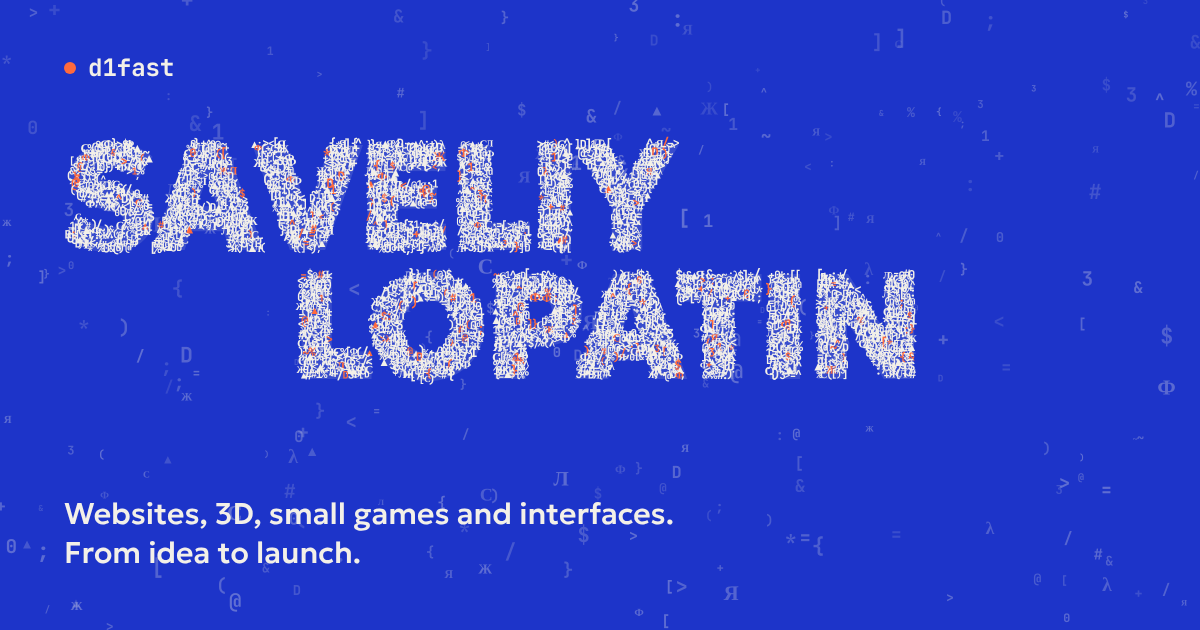
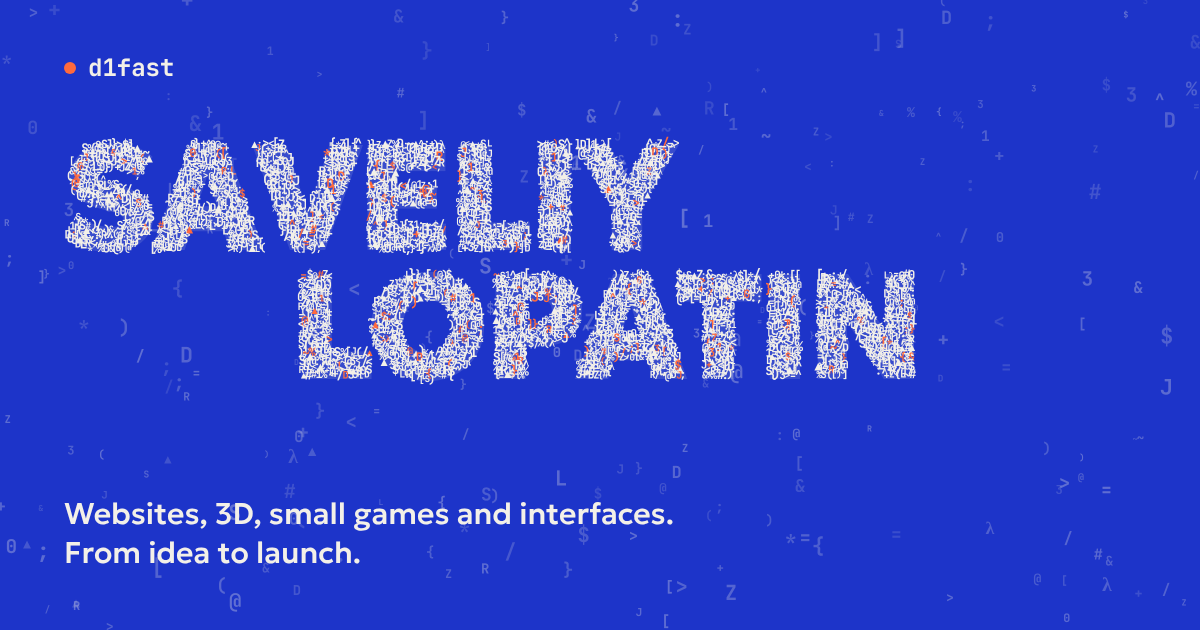
Правки по проверке: с клавиатуры фокус переезжает в открытый блок, PageUp/PageDown работают и в меню, ссылка «К содержимому» не уносит наверх, язык переключается в тот же блок; после отправки формы блок влезает в телефон; кинозал без подтормаживания на смене кадров, бра не срезается постером; на пер

diff --git a/src/i18n/ru.ts b/src/i18n/ru.ts
@@ -23,15 +23,14 @@ export const ru: Dict = {
   hero: {
     name: 'Савелий Лопатин',
     nick: 'd1fast',
-    tagline: 'Делаю сайты, 3D, небольшие игры и интерфейсы. От идеи до запуска.',
+    tagline: 'Делаю сайты, 3D, небольшие игры и\u00a0интерфейсы. От\u00a0идеи до\u00a0запуска.',
     ctaContact: 'Написать мне',
     ctaWorks: 'Работы',
   },
   about: {
     title: 'Обо мне',
     photoAlt: 'Фото Савелия Лопатина',
-    photoSoon: 'Фото скоро будет',
-    lead: 'Я Савелий, в сети d1fast. Молодой разработчик из Москвы. Делаю цифровые продукты целиком, от идеи до запуска.',
+    lead: 'Я Савелий, в сети d1fast. Молодой разработчик из Москвы. Делаю цифровые продукты целиком.',
     notes: ['сначала разбираюсь в задаче', 'пишу подробное ТЗ', 'довожу, пока не понравится самому', 'рутину отдаю ИИ, решаю сам'],
     stickers: ['Москва', 'работаю удалённо', 'отвечаю в тот же день'],
   },
@@ -44,7 +43,7 @@ export const ru: Dict = {
       { title: '3D и интерактив', text: 'Сцены на Three.js, которые летают и на телефоне.' },
       { title: 'Небольшие игры', text: 'Браузерные игры для промо и ради удовольствия.' },
       { title: 'Интерфейсы', text: 'Экраны, прототипы и дизайн-системы.' },
-      { title: 'Разобраться и описать', text: 'Разбор задачи и ТЗ до первой строки кода.' },
+      { title: 'Разбор задачи и ТЗ', text: 'Чёткое ТЗ до первой строки кода.' },
     ],
   },
   works: {
@@ -73,12 +72,12 @@ export const ru: Dict = {
     namePlaceholder: 'Имя, @ник или почта',
     messageLabel: 'Что нужно сделать',
     messagePlaceholder: 'Например: сайт для кофейни, нужен к декабрю',
-    consent: 'Согласен с',
-    consentLink: 'политикой обработки данных',
+    consent: 'Принимаю',
+    consentLink: 'политику обработки данных',
     submit: 'Отправить',
     sending: 'Отправляю',
     success: 'Получил! Отвечу в тот же день.',
-    successMail: 'Открылась почта с вашим письмом. Осталось нажать «Отправить».',
+    successMail: 'Должна открыться почта. Если нет, напишите на адрес выше.',
     error: 'Не отправилось. Напишите мне на почту:',
     errorConsent: 'Нужно согласие на обработку данных.',
     errorEmpty: 'Напишите хотя бы пару слов.',
@@ -97,7 +96,7 @@ export const ru: Dict = {
       'Оператор: Лопатин Савелий Алексеевич, почта saveliylopatin@yandex.ru.',
       'Какие данные: то, что вы сами написали в форме на сайте. Обычно это имя или контакт (ник в Telegram или почта) и текст сообщения.',
       'Зачем: чтобы ответить на ваше сообщение и обсудить задачу. Больше ни для чего.',
-      'Куда попадают: сообщение из формы приходит мне в Telegram. Telegram хранит его по своим правилам. Отдельной базы данных нет, никому не передаю и не продаю.',
+      'Куда попадают: сообщение из формы приходит мне в Telegram, а если форма открыла письмо, то на почту. Telegram и почта хранят его по своим правилам. Отдельной базы данных нет, никому не передаю и не продаю.',
       'Сколько храню: пока идёт переписка. Напишите мне, и я удалю сообщение.',
       'Основание: ваше согласие, которое вы даёте галочкой перед отправкой (статья 9 закона 152-ФЗ). Согласие можно отозвать письмом на почту выше.',
       'Ваши права: узнать, какие данные у меня есть, попросить их исправить или удалить. Отвечаю на такие письма в течение 10 дней.',

diff --git a/src/scripts/stage.ts b/src/scripts/stage.ts
@@ -206,6 +206,8 @@ export function initStage(hooks: StageHooks = {}) {
     if (a && a !== document.body && !b.contains(a) && !a.closest('.site-header, .dots')) a.blur();
     const hash = b.dataset.block === 'hero' ? '' : '#' + b.id;
     if (location.hash !== hash) history.replaceState(null, '', location.pathname + location.search + hash);
+    // переключатель языка ведёт в тот же блок другой версии
+    document.querySelectorAll<HTMLAnchorElement>('.site-header__lang').forEach((l) => { l.hash = hash; });
     b.classList.add('is-current');
     hooks.onArrive?.(b);
     b.dispatchEvent(new CustomEvent('block:enter', { detail: { dir, first } }));
@@ -219,8 +221,15 @@ export function initStage(hooks: StageHooks = {}) {
 
   const release = () => { if (performance.now() - lastWheel > 240) busy = false; else setTimeout(release, 80); };
 
-  const goTo = async (b: HTMLElement, dirIn?: Dir) => {
-    if (busy || b === current) return;
+  /** Фокус в начало блока (заголовок): следующий Tab идёт по этому блоку, а не возвращает назад. */
+  const focusBlock = (b: HTMLElement) => {
+    const h = b.querySelector<HTMLElement>('h1, h2') || b;
+    if (!h.hasAttribute('tabindex')) h.setAttribute('tabindex', '-1');
+    h.focus({ preventScroll: true });
+  };
+
+  const goTo = async (b: HTMLElement, dirIn?: Dir, focus = false) => {
+    if (busy || b === current) { if (focus && b === current) focusBlock(b); return; }
     const all = blocks();
     const dir: Dir = dirIn ?? (all.indexOf(b) > all.indexOf(current) ? 1 : -1);
     busy = true;
@@ -234,6 +243,7 @@ export function initStage(hooks: StageHooks = {}) {
     ctx.clearRect(0, 0, W, H);
     draw(ctx, W, H, 1, true, dir, colors, st);
     arrive(b, dir);
+    if (focus) focusBlock(b);
     await run(draw, colors, dir, false, REVEAL, st);
     ctx.clearRect(0, 0, W, H);
     canvas.classList.remove('is-on');
@@ -295,8 +305,9 @@ export function initStage(hooks: StageHooks = {}) {
     if (e.defaultPrevented || e.metaKey || e.ctrlKey || e.altKey) return;
     const t = e.target as HTMLElement;
     if (/^(INPUT|TEXTAREA|SELECT)$/.test(t.tagName) || t.isContentEditable) return;
-    if (t.closest?.('[data-keys]')) return;
     const k = e.key;
+    // меню и наклейки забирают себе стрелки и Home/End, PageUp/PageDown всегда листают блоки
+    if (t.closest?.('[data-keys]') && /^(Arrow(Up|Down|Left|Right)|Home|End)$/.test(k)) return;
     if (k === ' ' && t.closest?.('button, a, [role="button"], label, summary')) return;
     const all = blocks();
     if (k === 'Home') { e.preventDefault(); goTo(all[0], -1); return; }
@@ -318,18 +329,29 @@ export function initStage(hooks: StageHooks = {}) {
     const url = new URL(a.href, location.href);
     if (url.origin !== location.origin || url.pathname !== location.pathname) return;
     const id = url.hash.slice(1);
+    // ссылка «К содержимому»: фокус в текущий блок, страница не прыгает
+    if (id === 'main') { e.preventDefault(); focusBlock(current); return; }
     const b = id ? document.getElementById(id)?.closest<HTMLElement>('.block[data-block]') : blocks()[0];
     if (!b) return;
     e.preventDefault();
-    goTo(b);
+    // с клавиатуры (Enter по ссылке) фокус переезжает в блок вместе со сценой
+    goTo(b, undefined, e.detail === 0);
   });
 
   // фокус с клавиатуры ушёл в другой блок: сцена переезжает туда же без перехода
   document.addEventListener('focusin', (e) => {
     if (busy) return;
-    const b = (e.target as HTMLElement).closest?.<HTMLElement>('.block[data-block]');
-    if (b && b !== current) arrive(b, 1);
+    const t = e.target as HTMLElement;
+    const b = t.closest?.<HTMLElement>('.block[data-block]');
+    if (b && b !== current) {
+      arrive(b, 1);
+      // вход блока начинается с прозрачности: элемент в фокусе показывается сразу, вместе с рамкой фокуса
+      requestAnimationFrame(() => { if (document.activeElement === t) { gsap.killTweensOf(t); gsap.set(t, { clearProps: 'opacity,visibility,transform' }); } });
+    }
   });
+
+  // страница не должна стоять между блоками (например, после фокуса на элементе вне блоков)
+  addEventListener('scroll', () => { if (!busy && Math.abs(scrollY - current.offsetTop) > 2) window.scrollTo(0, current.offsetTop); }, { passive: true });
 
   addEventListener('resize', () => { size(); window.scrollTo(0, current.offsetTop); }, { passive: true });
 

diff --git a/src/scripts/glyphs.ts b/src/scripts/glyphs.ts
@@ -9,7 +9,8 @@ import * as THREE from 'three';
  * Физика считается на процессоре: пружина к месту в имени, поток шума, отталкивание, затухание.
  */
 
-const GLYPHS = '{}<>/=+*#01;()[]&%$@~^3DСЛФЖЯλ▲:'.split('');
+// знаки кода и буквы имени; на английской версии латиница вместо кириллицы, число знаков то же
+const GLYPHS = ('{}<>/=+*#01;()[]&%$@~^3D' + (typeof document !== 'undefined' && document.documentElement.lang.startsWith('en') ? 'SLJRZ' : 'СЛФЖЯ') + 'λ▲:').split('');
 const COLS = 8;
 const CELL = 64;
 
@@ -154,12 +155,15 @@ export function createField(o: FieldOpts) {
         size[i] = glyphSize * (0.85 + Math.random() * 0.4);
         alpha[i] = 1;
       } else {
-        // фон: редкие знаки по всему экрану на разной глубине
+        // фон: редкие знаки по всему экрану на разной глубине. Перспектива стягивает дальние к центру,
+        // поэтому место в мире берётся с поправкой: на экране знаки ложатся от края до края
         const z = 0.6 + Math.random() * 2.6;
-        tgt[i * 3] = Math.random() * W; tgt[i * 3 + 1] = Math.random() * H; tgt[i * 3 + 2] = z;
+        const ps = 1 / (1 + z * uniforms.uPersp.value), cx = uniforms.uCenter.value.x, cy = uniforms.uCenter.value.y;
+        tgt[i * 3] = cx + (Math.random() * W - cx) / ps; tgt[i * 3 + 1] = cy + (Math.random() * (H + 60) - 30 - cy) / ps; tgt[i * 3 + 2] = z;
         pos[i * 3] = tgt[i * 3]; pos[i * 3 + 1] = tgt[i * 3 + 1]; pos[i * 3 + 2] = z;
         size[i] = glyphSize * (1.1 + Math.random() * 1.6);
-        alpha[i] = 0.16 + Math.random() * 0.22;
+        // на телефоне фон заметнее: экран меньше, знаки мельче
+        alpha[i] = W < 600 ? 0.24 + Math.random() * 0.3 : 0.16 + Math.random() * 0.22;
       }
     }
     if (points) { scene.remove(points); geo?.dispose(); }
@@ -180,7 +184,7 @@ export function createField(o: FieldOpts) {
     if (n !== NT || !geo) { const amb = N - NT; build(targets, amb || ambientFor(), step); scatterNow(false); return; }
     for (let i = 0; i < NT; i++) { tgt[i * 3] = targets[i * 2]; tgt[i * 3 + 1] = targets[i * 2 + 1]; }
   }
-  const ambientFor = () => Math.round(Math.min(1400, (W * H) / 900));
+  const ambientFor = () => Math.round(Math.min(2000, (W * H) / (W < 600 ? 450 : 700)));
 
   function resize() {
     const r = o.root.getBoundingClientRect();
@@ -252,8 +256,10 @@ export function createField(o: FieldOpts) {
       } else {
         // фон держится у своей точки и плывёт вверх, как пыль в луче
         ax += (tgt[k] - x) * 0.4; ay += (tgt[k + 1] - y) * 0.4 - 6;
-        tgt[k + 1] -= dt * (4 + z * 3);
-        if (tgt[k + 1] < -30) { tgt[k + 1] = H + 30; y = tgt[k + 1]; tgt[k] = Math.random() * W; x = tgt[k]; }
+        const ps = 1 / (1 + z * uniforms.uPersp.value), cx = uniforms.uCenter.value.x, cy = uniforms.uCenter.value.y;
+        tgt[k + 1] -= (dt * (4 + z * 3)) / ps;
+        // ушёл за верх экрана: появляется снизу, за краем, а не посреди экрана
+        if (tgt[k + 1] < cy - (cy + 30) / ps) { tgt[k + 1] = cy + (H + 30 - cy) / ps; y = tgt[k + 1]; tgt[k] = cx + (Math.random() * W - cx) / ps; x = tgt[k]; }
       }
       // курсор: расталкивает знаки, рядом с ним они нагреваются
       if (pointer.on) {

diff --git a/src/i18n/en.ts b/src/i18n/en.ts
@@ -30,8 +30,7 @@ export const en: Dict = {
   about: {
     title: 'About',
     photoAlt: 'Photo of Saveliy Lopatin',
-    photoSoon: 'Photo coming soon',
-    lead: 'I’m Saveliy, better known online as d1fast. A young developer from Moscow. I build digital products end to end, from the idea to launch.',
+    lead: 'I’m Saveliy, better known online as d1fast. A young developer from Moscow. I build digital products end to end.',
     notes: ['first I get to the bottom of the task', 'I write a detailed spec', 'I polish until I like it myself', 'AI takes the routine, I make the calls'],
     stickers: ['Moscow', 'remote', 'same-day replies'],
   },
@@ -44,7 +43,7 @@ export const en: Dict = {
       { title: '3D and interactive', text: 'Three.js scenes that run smoothly on a phone too.' },
       { title: 'Small games', text: 'Browser games for promos or just for fun.' },
       { title: 'Interfaces', text: 'Screens, prototypes and design systems.' },
-      { title: 'Figure it out', text: 'Task breakdown and a spec before the first line of code.' },
+      { title: 'Specs and planning', text: 'A clear spec before the first line of code.' },
     ],
   },
   works: {
@@ -74,11 +73,11 @@ export const en: Dict = {
     messageLabel: 'What needs doing',
     messagePlaceholder: 'For example: a site for a coffee shop, needed by December',
     consent: 'I agree to the',
-    consentLink: 'data processing policy',
+    consentLink: 'privacy policy',
     submit: 'Send',
     sending: 'Sending',
     success: 'Got it! I’ll reply the same day.',
-    successMail: 'Your mail app is open with the letter. Just press Send.',
+    successMail: 'Your mail app should open with the letter. If it didn’t, use the address above.',
     error: 'That didn’t go through. Write to me by email:',
     errorConsent: 'Please agree to the data processing first.',
     errorEmpty: 'Write at least a couple of words.',
@@ -97,7 +96,7 @@ export const en: Dict = {
       'Data controller: Saveliy Alekseevich Lopatin, email saveliylopatin@yandex.ru.',
       'What is collected: only what you type into the form on this site. Usually a name or contact (a Telegram handle or an email) and the text of your message.',
       'Why: to answer your message and discuss the task. Nothing else.',
-      'Where it goes: a message from the form is delivered to my Telegram. Telegram stores it under its own rules. There is no separate database, and I never share or sell it.',
+      'Where it goes: a message from the form is delivered to my Telegram, or to my email if the form opened a letter. Telegram and the email service store it under their own rules. There is no separate database, and I never share or sell it.',
       'How long: for as long as we are talking. Write to me and I will delete the message.',
       'Legal basis: your consent, given by ticking the box before sending (Article 9 of Russian Federal Law 152-FZ). You can withdraw it by writing to the email above.',
       'Your rights: to find out what data I hold, and to ask me to correct or delete it. I answer such requests within 10 days.',

diff --git a/src/scripts/hero.ts b/src/scripts/hero.ts
@@ -1,8 +1,5 @@
 import { gsap } from 'gsap';
-import { SplitText } from 'gsap/SplitText';
 import type { Field } from './glyphs';
-
-gsap.registerPlugin(SplitText);
 
 /**
  * Первый экран. Имя собирается из роя знаков (glyphs.ts): на первом входе из облака по всему экрану,
@@ -22,16 +19,10 @@ export function initHero(onDone?: (hero: HTMLElement) => void) {
   let field: Field | null = null;
   let firstShown = false;
 
-  // подпись по строкам из-под маски, кнопки следом
-  let tagTween: gsap.core.Tween | null = null;
-  if (tag) SplitText.create(tag, { type: 'lines', mask: 'lines', linesClass: 'ln', autoSplit: true, aria: 'none', onSplit(self) {
-    tagTween?.kill();
-    tagTween = gsap.fromTo(self.lines, { yPercent: 110 }, { yPercent: 0, duration: 0.9, ease: 'expo.out', stagger: 0.08, paused: true });
-    if (firstShown) tagTween.progress(1);
-    return tagTween;
-  } });
+  // подпись поднимается целиком и проявляется, кнопки следом. Без разбивки на строки: так неразрывные пробелы
+  // («и\u00a0интерфейсы») остаются, и предлог не висит в конце строки
+  const tagTween = tag ? gsap.fromTo(tag, { y: 26, opacity: 0, clipPath: 'inset(0% 0% 100% 0%)' }, { y: 0, opacity: 1, clipPath: 'inset(-10% -2% -20% -2%)', duration: 1, ease: 'expo.out', paused: true }) : null;
   const showText = (delay: number) => {
-    gsap.set(tag, { opacity: 1 });
     tagTween?.delay(delay).restart(true);
     gsap.fromTo(cta, { y: 24, opacity: 0 }, { y: 0, opacity: 1, duration: 0.8, ease: 'expo.out', stagger: 0.08, delay: delay + 0.2, overwrite: true });
   };
@@ -74,7 +65,11 @@ export function initHero(onDone?: (hero: HTMLElement) => void) {
     let rt = 0;
     addEventListener('resize', () => {
       clearTimeout(rt);
-      rt = window.setTimeout(() => { f.resize(); const t2 = targets(); f.retarget(t2.pts, t2.s); f.start(); }, 160);
+      rt = window.setTimeout(() => {
+        f.resize(); const t2 = targets(); f.retarget(t2.pts, t2.s);
+        // рой оживает, только если первый экран сейчас открыт: иначе он крутился бы впустую под другими блоками
+        if (!document.documentElement.classList.contains('stage-on') || hero.classList.contains('is-current')) f.start();
+      }, 160);
     }, { passive: true });
 
     // курсор и палец

diff --git a/src/styles/global.css b/src/styles/global.css
@@ -39,8 +39,10 @@ ul, ol { padding: 0; list-style: none; }
 ::-webkit-scrollbar-thumb { background: color-mix(in oklab, var(--fg) 35%, transparent); border-radius: 999px; border: 2px solid var(--bg); }
 @supports (scrollbar-color: red blue) { html { scrollbar-color: color-mix(in oklab, var(--fg) 35%, transparent) transparent; } }
 
-.skip-link { position: absolute; left: 16px; top: -60px; z-index: 100; padding: 10px 14px; background: var(--fg); color: var(--bg); border-radius: 8px; font-weight: 600; }
+.skip-link { position: fixed; left: 16px; top: -60px; z-index: 100; padding: 10px 14px; background: var(--fg); color: var(--bg); border-radius: 8px; font-weight: 600; }
 .skip-link:focus { top: 16px; }
+/* заголовок блока получает фокус программно при переходе: рамка ему не нужна */
+[tabindex="-1"]:focus { outline: none; }
 .visually-hidden { position: absolute !important; width: 1px; height: 1px; margin: -1px; padding: 0; overflow: hidden; clip: rect(0 0 0 0); white-space: nowrap; border: 0; }
 
 .container { width: 100%; max-width: var(--container); margin-inline: auto; padding-inline: var(--gutter); }

diff --git a/src/styles/sections.css b/src/styles/sections.css
@@ -16,6 +16,8 @@
 .site-header__logo::before { content: ''; width: 8px; height: 8px; border-radius: 50%; background: currentColor; box-shadow: 0 0 0 3px color-mix(in oklab, currentColor 25%, transparent); }
 .site-header__nav { display: flex; gap: 22px; margin-left: auto; }
 .site-header__nav a { position: relative; padding: 6px 0; text-transform: lowercase; }
+/* в английском меню строчные набраны в разметке, местоимение I остаётся заглавным */
+.site-header__nav a:lang(en) { text-transform: none; }
 .site-header__nav a::after { content: ''; position: absolute; left: 0; right: 0; bottom: 0; height: 1px; background: currentColor; transform: scaleX(0); transform-origin: 0 50%; transition: transform .3s var(--ease-out); }
 .site-header__nav a:hover::after, .site-header__nav a:focus-visible::after { transform: scaleX(1); }
 .site-header__lang { display: inline-grid; place-items: center; min-width: 44px; min-height: 36px; border: 1px solid currentColor; padding: 0 10px; border-radius: var(--radius-sm); font-weight: 600; }

diff --git a/src/blocks/about/about.css b/src/blocks/about/about.css
@@ -67,7 +67,6 @@
     linear-gradient(160deg, #0d5a50, var(--fg) 70%);
 }
 .about__mono { font: italic 700 44cqi/1 var(--font-serif); letter-spacing: -.04em; padding-right: .06em; translate: 0 -4%; }
-.about__ph-note { position: absolute; left: 7cqi; right: 7cqi; bottom: 6cqi; font: 600 clamp(15px, 8.5cqi, 26px)/1 var(--font-hand); text-align: center; }
 .about__dev { position: absolute; inset: 0; background: #0b1714; pointer-events: none; opacity: 0; }
 .about__name { display: block; padding: calc(var(--pw) * .035) 4px calc(var(--pw) * .06) calc(var(--pw) * .03); text-align: left; color: var(--ink); font: 600 clamp(20px, calc(var(--pw) * .085), 40px)/1.05 var(--font-hand); }
 .about__name-t { display: inline-block; rotate: -2deg; }

diff --git a/src/i18n/types.ts b/src/i18n/types.ts
@@ -10,7 +10,7 @@ export interface Dict {
   };
   hero: { name: string; nick: string; tagline: string; ctaContact: string; ctaWorks: string };
   /** lead: одно короткое вступление; notes: пометки от руки; stickers: короткие наклейки-факты */
-  about: { title: string; photoAlt: string; photoSoon: string; lead: string; notes: string[]; stickers: string[] };
+  about: { title: string; photoAlt: string; lead: string; notes: string[]; stickers: string[] };
   services: { title: string; items: { title: string; text: string }[] };
   works: { title: string; open: string; year: string; stack: string };
   process: { title: string; steps: { title: string; text: string }[] };

diff --git a/src/blocks/works/works.ts b/src/blocks/works/works.ts
@@ -95,7 +95,9 @@ export function init(root: HTMLElement) {
   const LEADER: [number, number, number] = [150, 158, 168];
   const tint = (i: number | null, duration = 0.9) => {
     const c = i === null ? LEADER : film().amb[i] ?? [168, 176, 188];
-    gsap.to(root, { '--amb': `rgb(${c[0]}, ${c[1]}, ${c[2]})`, duration, ease: 'power2.out', overwrite: 'auto' });
+    // цвет меняется сразу, под склейкой: плавная смена переменной перекрашивала бы весь зал каждый кадр и тормозила
+    void duration;
+    gsap.set(root, { '--amb': `rgb(${c[0]}, ${c[1]}, ${c[2]})` });
     beam.color(c);
   };
 

diff --git a/src/blocks/contacts/contacts.css b/src/blocks/contacts/contacts.css
@@ -248,3 +248,9 @@ html.stage-on .block.contacts > .block__inner { flex: 1 0 auto; min-height: 0; }
   .contact-form__send { min-height: 40px; }
   .contacts > .site-footer { display: none; }
 }
+
+/* после отправки на невысоком телефоне: строка статуса мельче, поле письма в одну строку, блок по-прежнему влезает */
+@media (max-width: 760px) and (max-height: 700px) {
+  .contact-form__status[data-kind="ok"] { font-size: 17px; line-height: 1.2; margin-top: -2px; }
+  .contact-form:has(.contact-form__status[data-kind="ok"]) .field__textarea { height: calc(28px + 2px); }
+}

diff --git a/src/blocks/works/works.css b/src/blocks/works/works.css
@@ -500,3 +500,10 @@ html.js .works__fold { transform: translateX(calc(var(--i) * 74.07%)); }
   .works__row--back, .works__row--middle { display: none; }
   .works__row--front { --arc: calc(var(--u) * .3); }
 }
+
+/* три колонки: бра посередине между рамкой сцены и колонкой сеансов, абажур не срезает постер */
+@media (min-width: 1200px) {
+  .works__program { padding-left: clamp(12px, 1vw, 20px); }
+  .works__sconce--r { right: calc(-1 * (18px + var(--cg) + clamp(12px, 1vw, 20px)) / 2); }
+  .works__sconce--l { left: calc(-1 * (18px + var(--cg) + clamp(12px, 1vw, 20px)) / 2); }
+}
